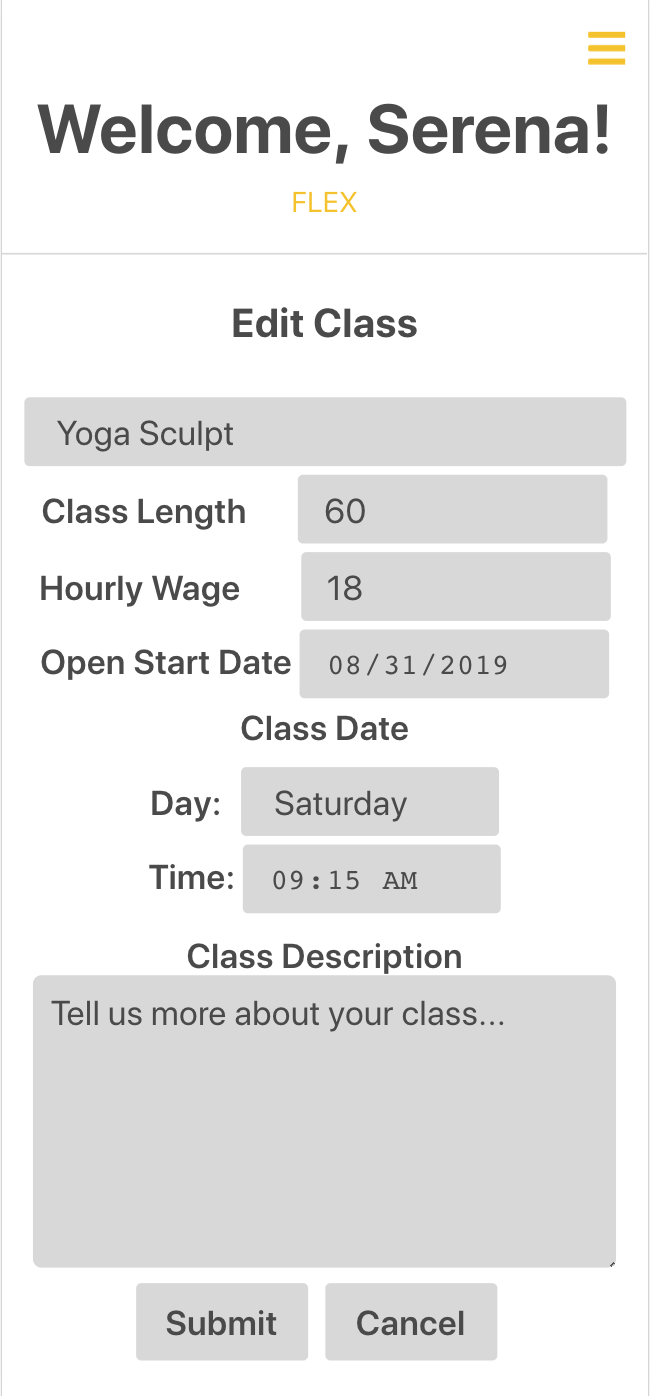
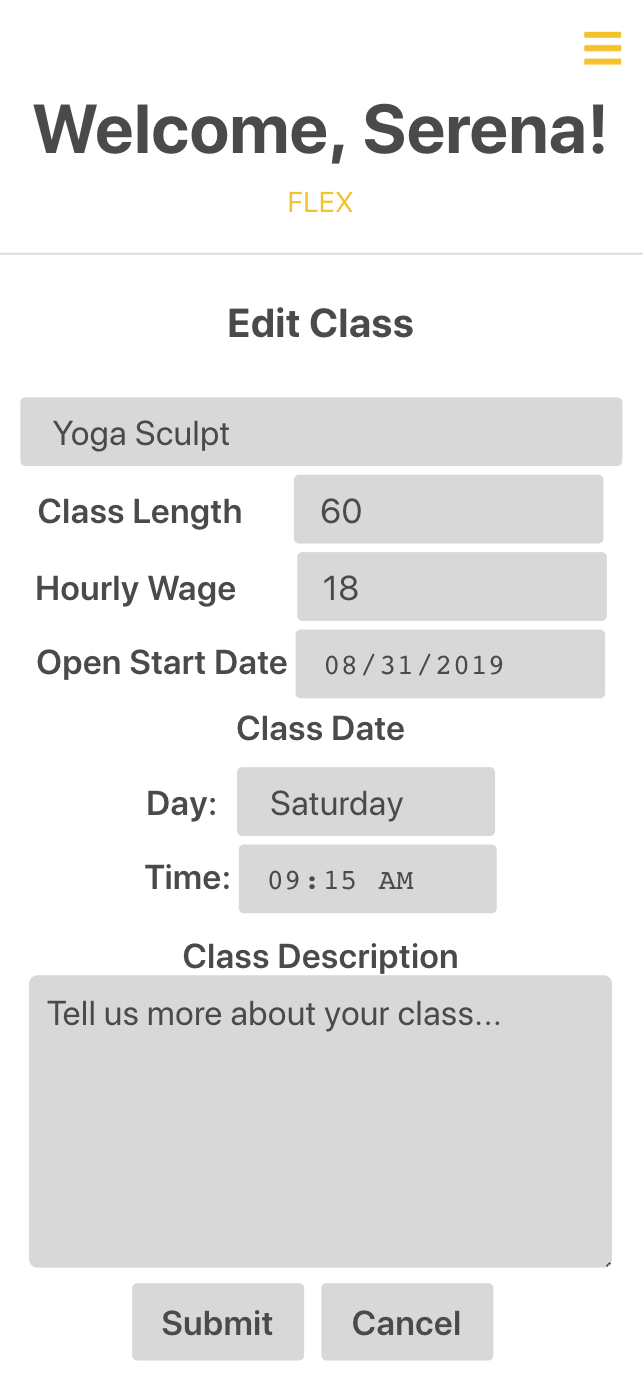
README.md

diff --git a/README.md b/README.md
@@ -20,11 +20,12 @@ Live demo can be found [here](https://floating-savannah-98427.herokuapp.com/)
 
 ### Instructor Dashboard
 
-<img src='./screenshots/open.png' height='360px' alt='instructor open classes'/>
-<img src='./screenshots/pending.png' height='360px' alt='instructor pending classes' />
+|            See open classes at studios             |                           See open classes you've applied to                            |
+| :------------------------------------------------: | :-------------------------------------------------------------------------------------: |
+| <img src='./screenshots/open.png' height='600px'/> | <img src='./screenshots/pending.png' height='600px' alt='instructor pending classes' /> |
 
 ### Studio Dashboard
 
-<img src='./screenshots/posted.png/' height='360px' alt='studio posted classes'/>
-<img src='./screenshots/editClass.png' height='360px' alt='studio edit class form' />
-<img src='./screenshots/postClass.png' height='360px' alt='studio post new class form' />
+|             See open classes you've posted             |               Edit existing class postings               |                                   Post a new open class                                   |
+| :----------------------------------------------------: | :------------------------------------------------------: | :---------------------------------------------------------------------------------------: |
+| <img src='./screenshots/posted.png/' height='600px' /> | <img src='./screenshots/editClass.png' height='600px' /> | <img src='./screenshots/postClass.png' height='600px' alt='studio post new class form' /> |
